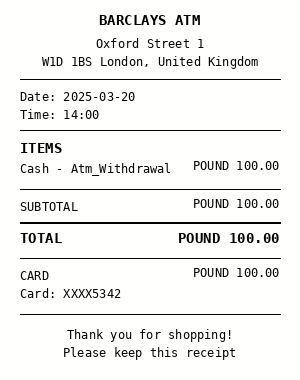
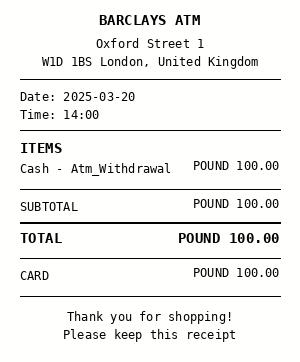
Fixed 2b.1

diff --git a/gifs/automation/receipt_renderer.py b/gifs/automation/receipt_renderer.py
@@ -143,6 +143,8 @@ def render_receipt(
     city = address.get("city", "")
     country = address.get("country", "")
 
+    shop_account_nr = shop.get("shop_account_nr", "")
+
     net_items = data.get("net_bought_items", {})
     description = net_items.get("description", "Item")
     the_date_raw = data.get("the_date", "")
@@ -180,21 +182,26 @@ def render_receipt(
     # -- Address: street + house_nr ------------------------------------------
     if street and house_nr:
         addr_text = f"{street} {house_nr}"
-        _record(
-            draw,
-            (width // 2, y),
-            addr_text,
-            font=font,
-            field="shop_street",
-            boxes=boxes,
-            anchor="mt",
-        )
-        # shop_house_nr shares the same line — record the house_nr portion
-        # Measure the full string and the street-only prefix to find hr offset
+        # Draw the full line centered (no bbox recording)
+        _draw_only(draw, (width // 2, y), addr_text, font=font, anchor="mt")
+
+        # Compute left edge of the centered line
         full_w = draw.textlength(addr_text, font=font)
-        street_w = draw.textlength(f"{street} ", font=font)
-        # Compute the left edge of the full centered string
         full_left = width // 2 - full_w / 2
+
+        # Record shop_street bbox (street portion only)
+        st_bbox = draw.textbbox((int(full_left), y), street, font=font)
+        boxes.setdefault("shop_street", []).append(
+            {
+                "x": max(0, int(st_bbox[0] - _PAD)),
+                "y": max(0, int(st_bbox[1] - _PAD)),
+                "w": int(st_bbox[2] - st_bbox[0]) + 2 * _PAD,
+                "h": int(st_bbox[3] - st_bbox[1]) + 2 * _PAD,
+            }
+        )
+
+        # Record shop_house_nr bbox (house number portion only)
+        street_w = draw.textlength(f"{street} ", font=font)
         hr_left = full_left + street_w
         hr_bbox = draw.textbbox((int(hr_left), y), house_nr, font=font)
         boxes.setdefault("shop_house_nr", []).append(
@@ -344,11 +351,13 @@ def render_receipt(
             field="tax",
             boxes=boxes,
         )
-        _draw_only(
+        _record(
             draw,
             (width - 20, y),
             f"{currency} {total_tax:.2f}",
             font=font,
+            field="tax",
+            boxes=boxes,
             anchor="rt",
         )
         y += line_height
@@ -413,11 +422,11 @@ def render_receipt(
         )
         y += line_height
 
-        if is_card_payment:
+        if is_card_payment and shop_account_nr:
             _record(
                 draw,
                 (20, y),
-                "Card: XXXX5342",
+                shop_account_nr,
                 font=font,
                 field="bank_account",
                 boxes=boxes,

diff --git a/gifs/automation/setup_test_environment.py b/gifs/automation/setup_test_environment.py
@@ -101,7 +101,7 @@ def setup_demo_environment(base_dir: str = "/tmp/hledger_demo") -> dict:
     csv_path.write_text(
         "date,account_nr,amount,type,payee,counter_account,code,"
         "description,balance\n"
-        "15-01-2025,NL123,-42.17,debit,Ekoplaza,NL456,IC,"
+        "15-01-2025,NL79 TRIO 0379 2834 09,-42.17,debit,Ekoplaza,NL456,IC,"
         "groceries:ekoplaza,1000.00\n"
     )
 
